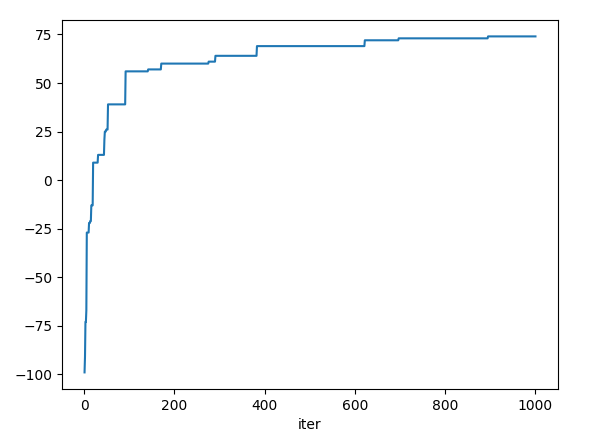
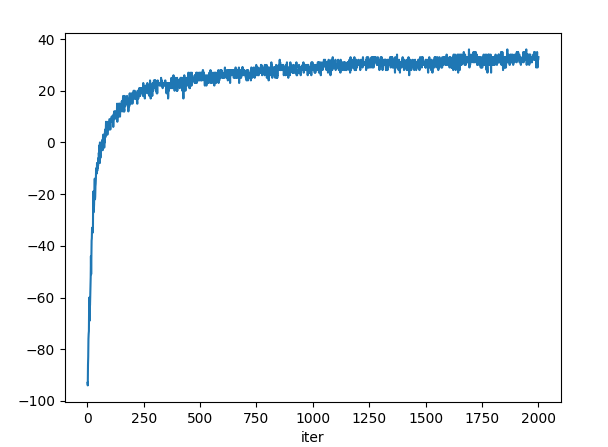
update docs with new image

Changed region(s): [[0.0297, 0.059, 0.9505, 1.0]]

diff --git a/README.md b/README.md
@@ -15,7 +15,7 @@ This is because if one player chooses the pure random strategy, the other player
 And that in turn can be countered by whatever beats that choice, etc.. etc.. by removing a simple and stable behavior that (originally) could not be exploited,
 that dead end attractor is removed from the [fitness landscape](https://en.wikipedia.org/wiki/Fitness_landscape).
 
-An example of improved fitness over 1000 generations vs Iocaine Powder and asymmetric rewards:
+An example of improved fitness over 2000 generations vs Iocaine Powder and asymmetric rewards:
 
 <img src="images/fitness-over-time.png" width="250" height="250">
 
